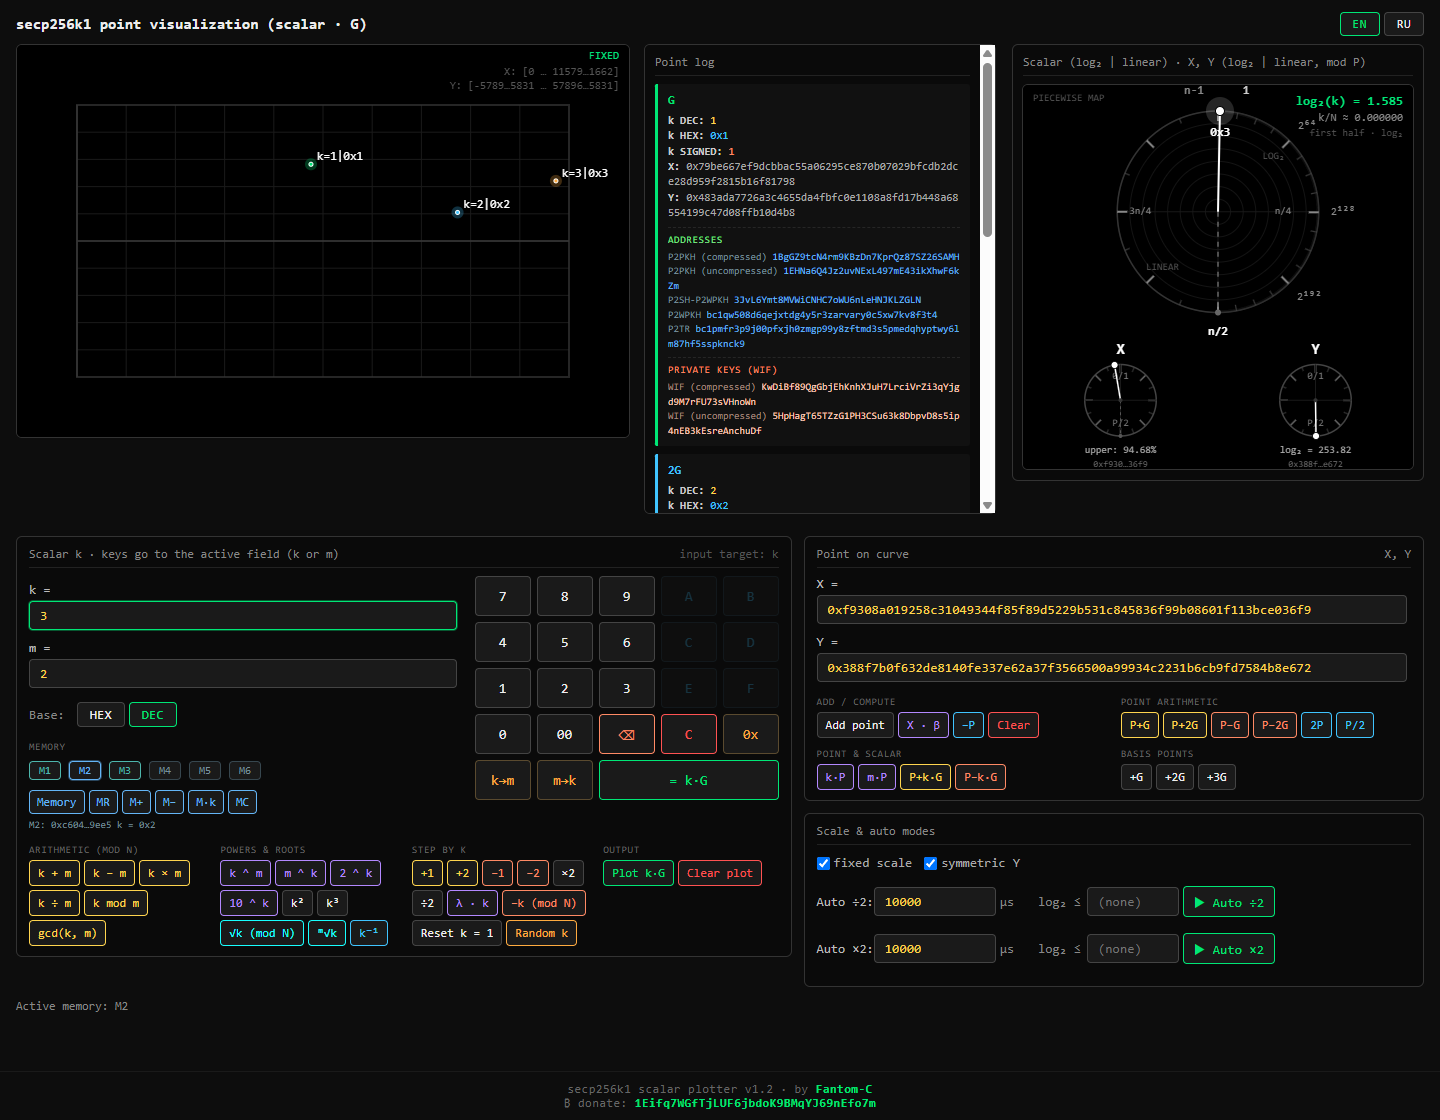
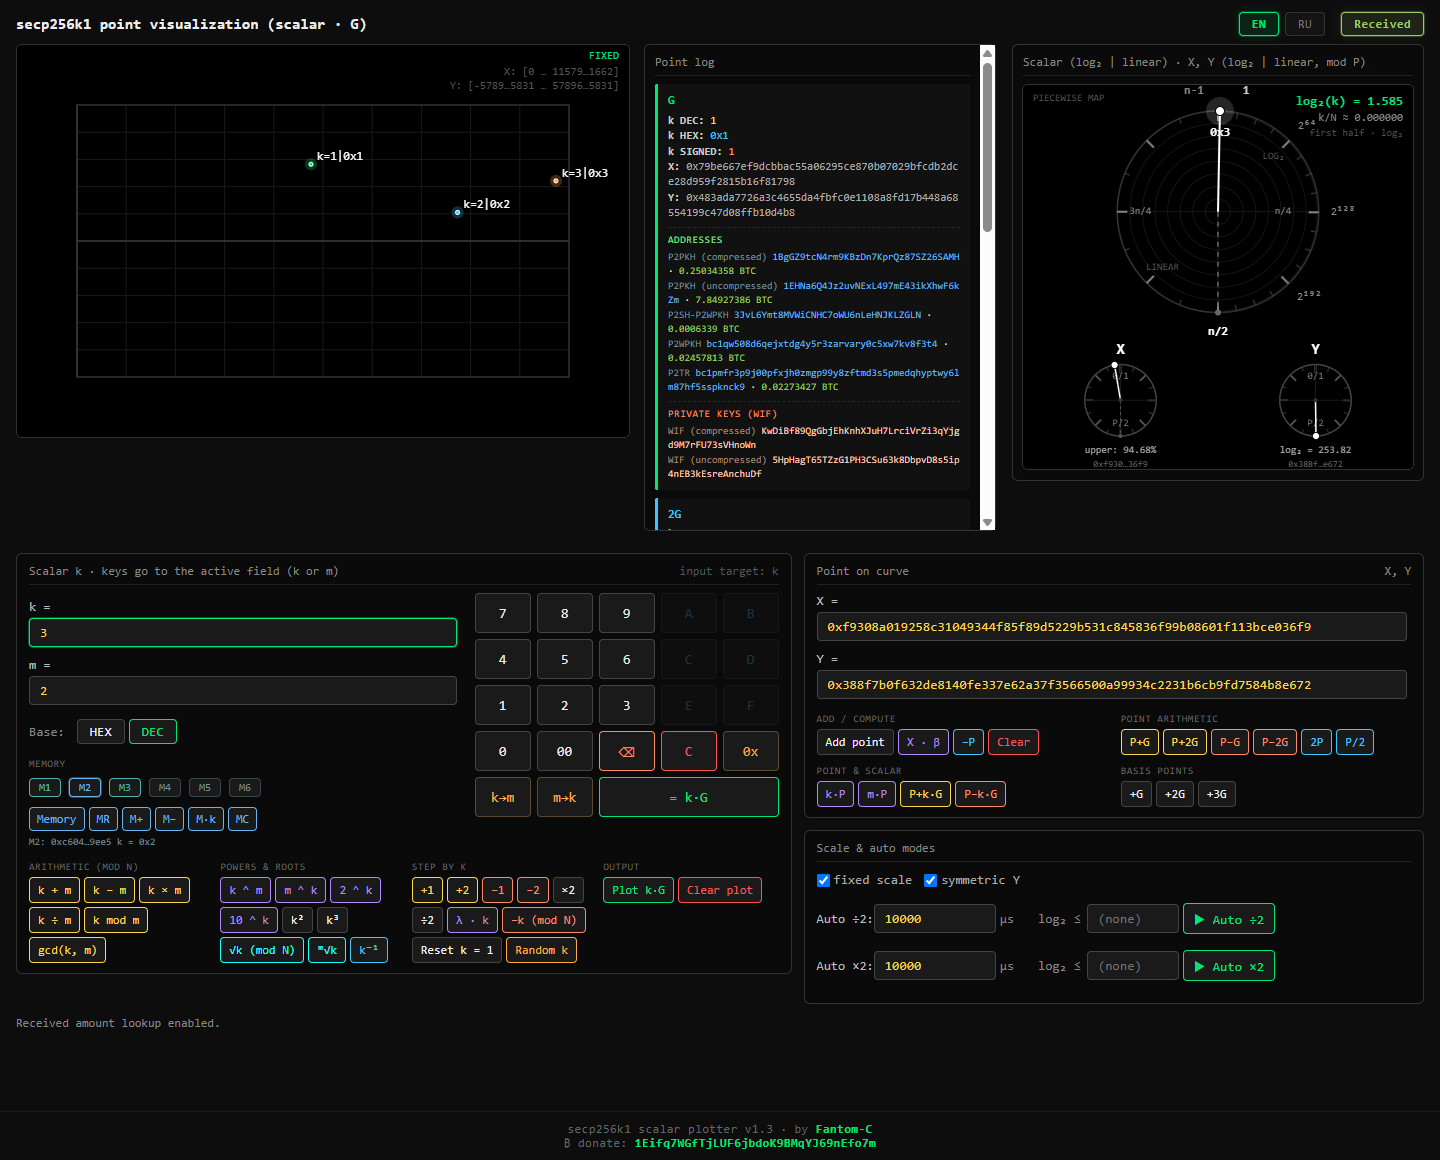
Add files via upload

diff --git a/index.html b/index.html
@@ -51,11 +51,31 @@
     gap:12px; flex-wrap:wrap; margin-bottom:8px;
   }
   #pageHead h3 { margin:0; }
-  #langSwitch { display:flex; gap:4px; flex-shrink:0; }
+  #langSwitch { display:flex; gap:6px; align-items:center; flex-shrink:0; }
   #langSwitch button {
     margin:0; padding:4px 12px; font-size:12px; letter-spacing:0.5px;
+    background:#141414; border:1px solid #333; color:#777;
+    transition: color .15s, border-color .15s, background .15s, box-shadow .15s;
   }
-  #langSwitch button.active { border-color:#00e676; color:#00e676; }
+  #langSwitch button:hover {
+    color:#e0e0e0; border-color:#666; background:#1b1b1b;
+  }
+  #langSwitch button.active {
+    color:#00e676; border-color:#00e676; background:rgba(0, 230, 118, 0.10);
+    box-shadow: 0 0 0 1px rgba(0,230,118,0.25), 0 0 10px rgba(0,230,118,0.12);
+    font-weight:bold;
+  }
+  #langSwitch .balance-btn {
+    margin-left:10px; color:#78909c; border-color:#37474f; background:#101010;
+  }
+  #langSwitch .balance-btn:hover {
+    color:#9ccc65; border-color:#558b2f; background:#151a10;
+  }
+  #langSwitch .balance-btn.active {
+    color:#9ccc65; border-color:#9ccc65; background:rgba(156, 204, 101, 0.12);
+    box-shadow: 0 0 0 1px rgba(156,204,101,0.25), 0 0 10px rgba(156,204,101,0.12);
+    font-weight:bold;
+  }
 
   #layout {
     display:flex; flex-wrap:wrap; gap:16px; align-items:flex-start;
@@ -98,6 +118,11 @@
   .legend-item .addr b { color:#78909c; font-weight:normal; }
   .legend-item .addr a { color:#64b5f6; text-decoration:none; }
   .legend-item .addr a:hover { text-decoration:underline; }
+  .legend-item .addr-bal {
+    color:#9ccc65; cursor:pointer; white-space:nowrap;
+  }
+  .legend-item .addr-bal.loading { color:#616161; cursor:default; }
+  .legend-item .addr-bal.error { color:#e57373; }
   .legend-item .wif-title { color:#ff8a65; }
   .legend-item .wif {
     font-size:10px; line-height:1.45; color:#ffccbc; word-break:break-all;
@@ -238,6 +263,7 @@
   <div id="langSwitch">
     <button id="langEnBtn" class="active" onclick="setLang('en')">EN</button>
     <button id="langRuBtn" onclick="setLang('ru')">RU</button>
+    <button id="balanceBtn" class="balance-btn" onclick="uiToggleBalances()" title="Проверка полученной суммы">Получено</button>
   </div>
 </div>
 
@@ -472,7 +498,7 @@
 <div id="status">Готово.</div>
 
 <div id="footer">
-  <div>secp256k1 scalar plotter v1.2 · by <b>Fantom-C</b></div>
+  <div>secp256k1 scalar plotter v1.3 · by <b>Fantom-C</b></div>
   <div class="donate">
     <span class="donate-label">₿ donate:</span>
     <span class="donate-addr"><b>1Eifq7WGfTjLUF6jbdoK9BMqYJ69nEfo7m<b></span>
@@ -1597,6 +1623,168 @@ function deriveBitcoinAddresses(x, y) {
 }
 
 /* ============================================================
+   Количество транзакций по адресу:
+   mempool.space -> blockstream.info (CORS-friendly Esplora API)
+   ============================================================ */
+const BALANCE_TTL_MS = 60000;
+const balanceCache = new Map();
+const balanceInFlight = new Map();
+let balanceQueue = Promise.resolve();
+let balancesEnabled = false;
+
+function updateBalanceBtn() {
+    const btn = document.getElementById('balanceBtn');
+    if (!btn) return;
+    btn.classList.toggle('active', balancesEnabled);
+    btn.title = balancesEnabled
+        ? t('Проверка полученной суммы включена (нажмите, чтобы выключить)')
+        : t('Проверка полученной суммы выключена (нажмите, чтобы включить)');
+}
+
+function uiToggleBalances() {
+    balancesEnabled = !balancesEnabled;
+    updateBalanceBtn();
+    renderLegend(plotter.points);
+    setStatus(balancesEnabled ? t('Проверка полученной суммы включена.') : t('Проверка полученной суммы выключена.'));
+}
+
+function satToBtc(sat) {
+    if (sat === null || sat === undefined) return '—';
+    const neg = sat < 0n;
+    const abs = neg ? -sat : sat;
+    const whole = abs / 100000000n;
+    const frac = (abs % 100000000n).toString().padStart(8, '0').replace(/0+$/, '');
+    return (neg ? '-' : '') + whole.toString() + (frac ? '.' + frac : '');
+}
+
+function receivedText(entry) {
+    if (!entry || entry.error) return '—';
+    return satToBtc(entry.received) + ' BTC';
+}
+
+function receivedTitle(entry) {
+    if (!entry || entry.error) return t('Сумма полученных недоступна');
+    return t('Получено: {1} BTC', satToBtc(entry.received)) + '\n' +
+           t('{1} sat', entry.received.toString(10));
+}
+
+function setBalanceLoading(addr) {
+    document.querySelectorAll('.addr-bal').forEach(el => {
+        if (el.dataset.addr !== addr) return;
+        el.textContent = '…';
+        el.classList.add('loading');
+        el.classList.remove('error');
+        el.title = t('Загрузка полученной суммы…');
+    });
+}
+
+function updateBalanceEls(addr, entry) {
+    document.querySelectorAll('.addr-bal').forEach(el => {
+        if (el.dataset.addr !== addr) return;
+        el.textContent = receivedText(entry);
+        el.classList.remove('loading');
+        el.classList.toggle('error', !!entry.error);
+        el.title = receivedTitle(entry);
+    });
+}
+
+async function fetchAddressReceived(addr) {
+    const enc = encodeURIComponent(addr);
+    let lastError = null;
+
+    try {
+        const ctrl = new AbortController();
+        const timer = setTimeout(() => ctrl.abort(), 7000);
+        try {
+            const res = await fetch('https://blockchain.info/q/getreceivedbyaddress/' + enc, {
+                signal: ctrl.signal,
+                cache: 'no-store'
+            });
+            if (!res.ok) throw new Error('HTTP ' + res.status);
+            const text = (await res.text()).trim();
+            if (!/^\d+$/.test(text)) throw new Error('bad response');
+            return { received: BigInt(text), source: 'blockchain.info', error: null, ts: Date.now() };
+        } finally {
+            clearTimeout(timer);
+        }
+    } catch (e) {
+        lastError = e;
+    }
+
+    const urls = [
+        ['mempool.space', 'https://mempool.space/api/address/' + enc],
+        ['blockstream.info', 'https://blockstream.info/api/address/' + enc]
+    ];
+    for (const [source, url] of urls) {
+        const ctrl = new AbortController();
+        const timer = setTimeout(() => ctrl.abort(), 7000);
+        try {
+            const res = await fetch(url, { signal: ctrl.signal, cache: 'no-store' });
+            if (!res.ok) throw new Error('HTTP ' + res.status);
+            const j = await res.json();
+            const c = j.chain_stats || {};
+            const m = j.mempool_stats || {};
+            const received = BigInt(c.funded_txo_sum || 0) + BigInt(m.funded_txo_sum || 0);
+            return { received, source, error: null, ts: Date.now() };
+        } catch (e) {
+            lastError = e;
+        } finally {
+            clearTimeout(timer);
+        }
+    }
+    throw lastError || new Error('network error');
+}
+
+function loadBalance(addr, force) {
+    if (!balancesEnabled) return Promise.resolve(null);
+    const cached = balanceCache.get(addr);
+    if (!force && cached && Date.now() - cached.ts < BALANCE_TTL_MS) {
+        updateBalanceEls(addr, cached);
+        return Promise.resolve(cached);
+    }
+    if (balanceInFlight.has(addr)) return balanceInFlight.get(addr);
+
+    setBalanceLoading(addr);
+    const task = balanceQueue.then(() => (
+        balancesEnabled ? fetchAddressReceived(addr) : { skipped: true }
+    ));
+    balanceQueue = task.then(() => undefined, () => undefined);
+
+    const p = task
+        .then(entry => {
+            if (entry && entry.skipped) return entry;
+            balanceCache.set(addr, entry);
+            updateBalanceEls(addr, entry);
+            return entry;
+        })
+        .catch(e => {
+            const entry = {
+                received: null,
+                error: (e && e.message) ? e.message : 'error',
+                ts: Date.now()
+            };
+            balanceCache.set(addr, entry);
+            updateBalanceEls(addr, entry);
+            return entry;
+        })
+        .finally(() => { balanceInFlight.delete(addr); });
+
+    balanceInFlight.set(addr, p);
+    return p;
+}
+
+function requestBalanceForDisplay(addr) {
+    if (!balancesEnabled) return;
+    if (!addr || addr === '—') return;
+    const cached = balanceCache.get(addr);
+    if (cached && Date.now() - cached.ts < BALANCE_TTL_MS) {
+        updateBalanceEls(addr, cached);
+    } else {
+        loadBalance(addr);
+    }
+}
+
+/* ============================================================
    Лог точек
    ============================================================ */
 function renderLegend(points) {
@@ -1677,6 +1865,17 @@ function renderLegend(points) {
                 link.textContent = value;
                 row.appendChild(document.createTextNode(' '));
                 row.appendChild(link);
+
+                const bal = document.createElement('span');
+                if (balancesEnabled) {
+                    bal.className = 'addr-bal loading';
+                    bal.dataset.addr = value;
+                    bal.textContent = '…';
+                    bal.title = t('Загрузка полученной суммы…');
+                    bal.addEventListener('click', () => loadBalance(value, true));
+                    row.appendChild(document.createTextNode(' · '));
+                    row.appendChild(bal);
+                }
             } else {
                 row.appendChild(document.createTextNode(' ' + value));
             }
@@ -1712,6 +1911,7 @@ function renderLegend(points) {
         }
 
         list.appendChild(div);
+        for (const [, value] of addrRows) requestBalanceForDisplay(value);
     }
     const panel = document.getElementById('legend');
     panel.scrollTop = panel.scrollHeight;
@@ -1747,6 +1947,16 @@ const EN_STRINGS = {
     'Лог точек': 'Point log',
     'Адреса': 'Addresses',
     'Открыть на blockchain.com': 'Open on blockchain.com',
+    'Сумма полученных недоступна': 'Received amount unavailable',
+    'Получено': 'Received',
+    'Проверка полученной суммы': 'Received amount lookup',
+    'Проверка полученной суммы включена (нажмите, чтобы выключить)': 'Received amount lookup is on (click to turn off)',
+    'Проверка полученной суммы выключена (нажмите, чтобы включить)': 'Received amount lookup is off (click to turn on)',
+    'Проверка полученной суммы включена.': 'Received amount lookup enabled.',
+    'Проверка полученной суммы выключена.': 'Received amount lookup disabled.',
+    'Загрузка полученной суммы…': 'Loading received amount…',
+    'Получено: {1} BTC': 'Received: {1} BTC',
+    '{1} sat': '{1} sat',
     'Приватные ключи (WIF)': 'Private keys (WIF)',
     'Приватный ключ — не показывайте никому': 'Private key — do not share with anyone',
     'Память': 'Memory',
@@ -1974,6 +2184,7 @@ function applyLanguage() {
     renderLegend(plotter.points);
     refreshAutoButtons();
     updateMemButtons();
+    updateBalanceBtn();
 }
 
 function setLang(lang) {

diff --git a/README.md b/README.md
@@ -24,7 +24,8 @@ Browser-only **secp256k1** scalar calculator and point visualizer. Single self-c
 - **Point log** with `k` (DEC/HEX/SIGNED), `X`, `Y` and Bitcoin data:
   - **P2PKH** (compressed/uncompressed), **P2SH-P2WPKH**, **P2WPKH**, **P2TR**;
   - **WIF** private keys (compressed/uncompressed) when the point scalar is known;
-  - addresses open on Blockchain.com, WIF copies to clipboard on click.
+  - addresses open on Blockchain.com, WIF copies to clipboard on click;
+  - total received amount next to each address (off by default; enable with the **Received** button next to EN/RU; `blockchain.info/q/getreceivedbyaddress`, fallback mempool.space/blockstream.info; click to refresh).
 - **Visualization**: point plot, logarithmic scalar ring, `X`/`Y` rings.
 - **Interface**: English/Russian (English by default), responsive layout.
 
@@ -35,6 +36,8 @@ Open `index.html` in a browser. Nothing else is required.
 ### Security warning
 
 The app displays **private keys (WIF)**. Everything runs locally in your browser, but use it responsibly: never publish generated private keys, do not store real funds on browser-generated keys without understanding the risks, and prefer hardware/offline wallets for real money.
+
+Received-amount lookups send the generated addresses to public APIs (`blockchain.info`, fallback `mempool.space`/`blockstream.info`). Use the tool offline if you do not want addresses to leave your device.
 
 ### Donations
 
@@ -64,7 +67,8 @@ If you find this project useful, you can support it:
 - **Лог точек** с `k` (DEC/HEX/SIGNED), `X`, `Y` и данными Bitcoin:
   - **P2PKH** (compressed/uncompressed), **P2SH-P2WPKH**, **P2WPKH**, **P2TR**;
   - **WIF** приватные ключи (compressed/uncompressed), если скаляр точки известен;
-  - адреса открываются на Blockchain.com, WIF копируется по клику.
+  - адреса открываются на Blockchain.com, WIF копируется по клику;
+  - сумма всех полученных сатоши рядом с каждым адресом (по умолчанию выключено; включается кнопкой **«Получено»** рядом с EN/RU; `blockchain.info/q/getreceivedbyaddress`, резерв mempool.space/blockstream.info; клик — обновить).
 - **Визуализация**: график точек, логарифмическая круговая шкала скаляра, шкалы `X`/`Y`.
 - **Интерфейс**: English/Русский (по умолчанию English), адаптивная вёрстка.
 
@@ -75,6 +79,8 @@ If you find this project useful, you can support it:
 ### Безопасность
 
 Приложение показывает **приватные ключи (WIF)**. Всё работает локально в браузере, но используйте ответственно: не публикуйте сгенерированные ключи, не храните реальные средства на ключах, созданных в браузере, без понимания рисков, и предпочитайте аппаратные/офлайн-кошельки.
+
+Запросы суммы полученных отправляют сгенерированные адреса в публичные API (`blockchain.info`, резерв `mempool.space`/`blockstream.info`). Если не хотите передавать адреса наружу — используйте инструмент офлайн.
 
 ### Донаты
 
